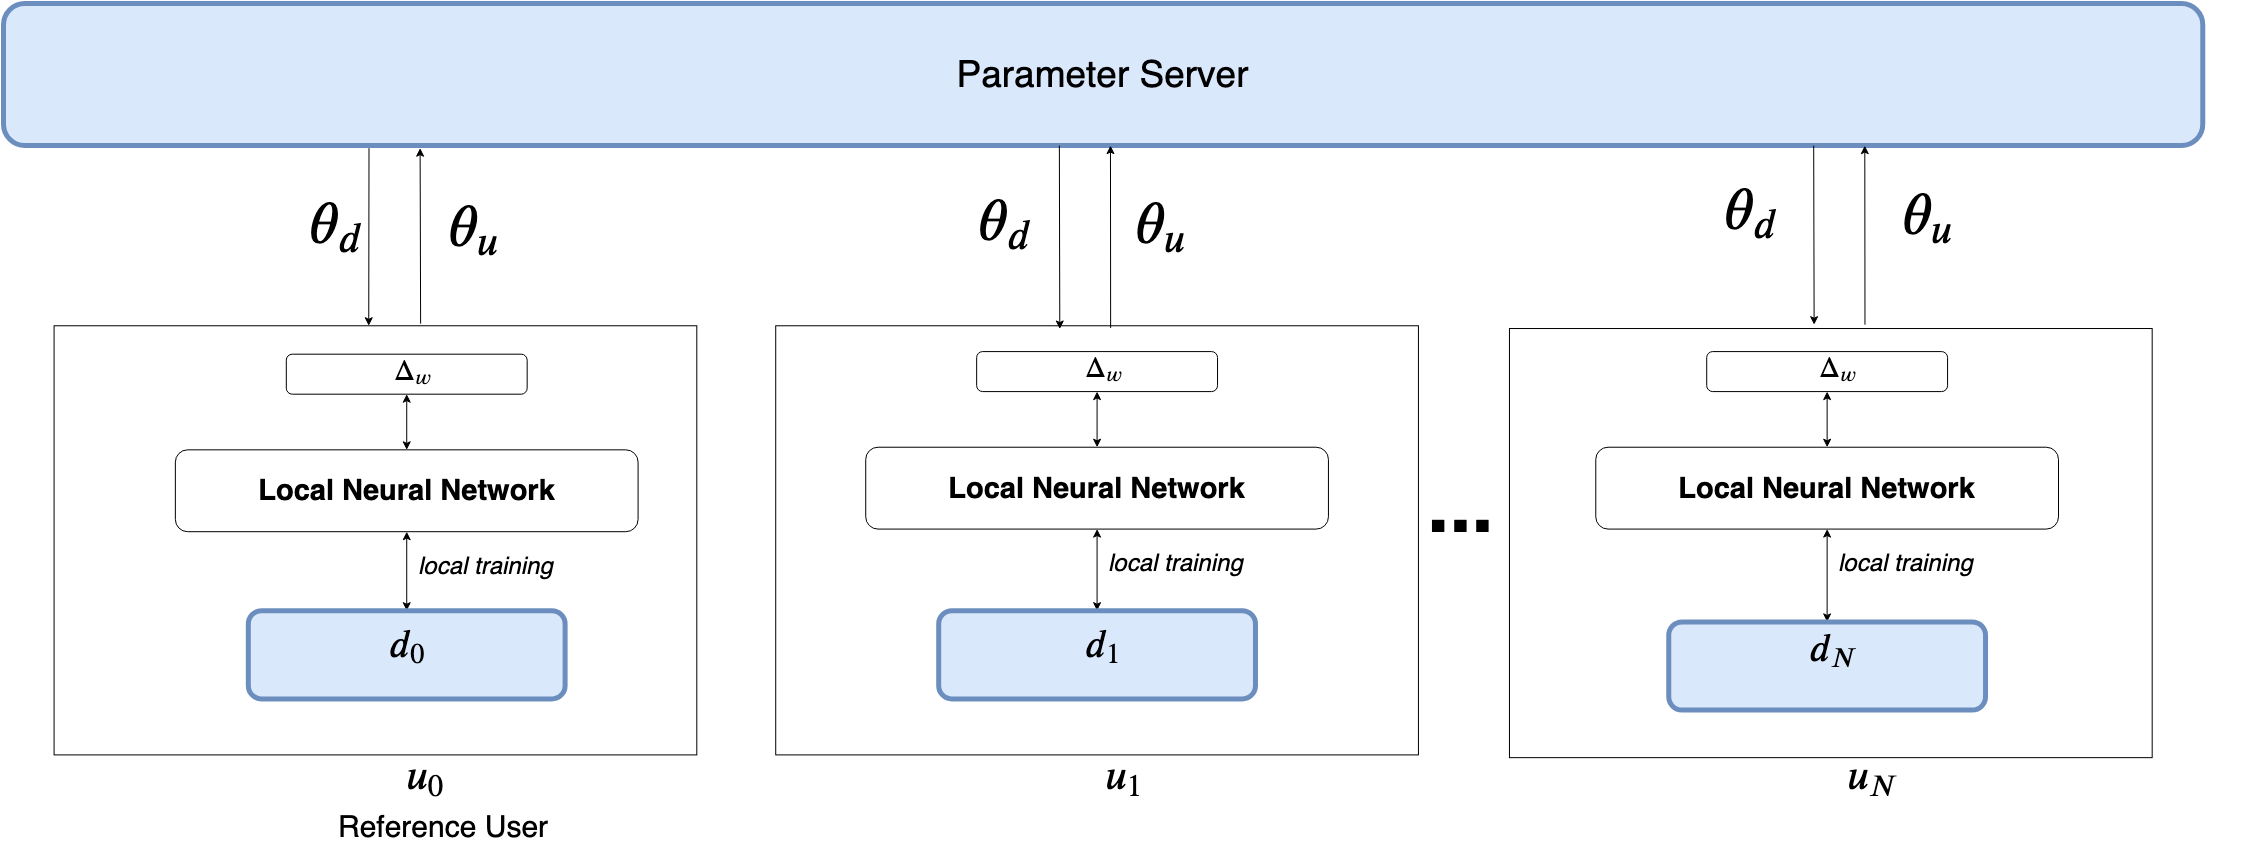
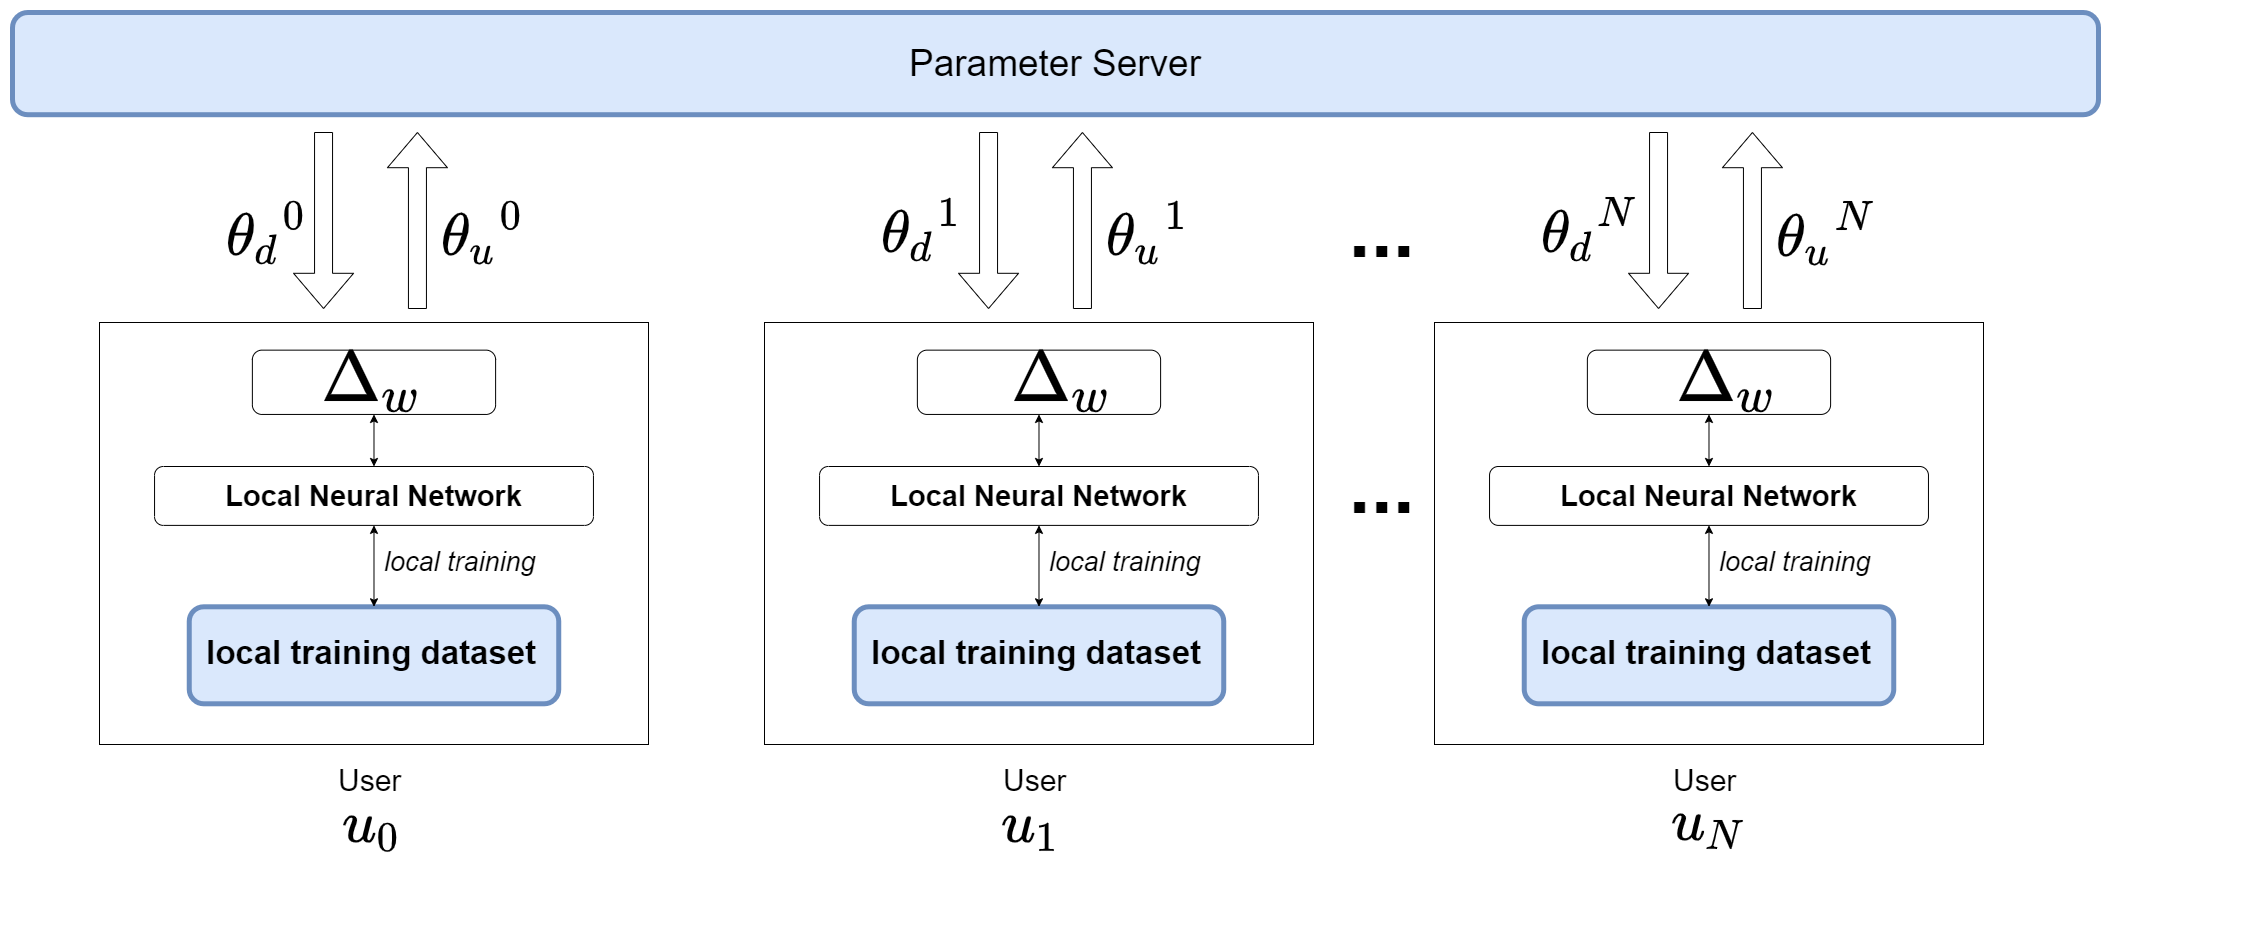
Edit Introduction, HighLevelArch diagrams. Add grids to graphs. Edit Experimental Result to include AllUploadNoDownload result

diff --git a/tex/Deep-Learning-Thesis-Draft-1.tex b/tex/Deep-Learning-Thesis-Draft-1.tex
@@ -57,7 +57,7 @@ samples from the reference user while maintaining a highly accurate deep neural 
 %Our solution does not involve computationally expensive cryptographic processes and relies on limiting the exposure of private dataset
 %of participants. 
 Our approach is flexible and can be adapted to work with any deep neural network architectures. We conduct extensive experiments to
-verify the proposed approach. We observe that the trained neural network can achieve \hl{\% of accuracy}, while protecting the privacy
+verify the proposed approach. We observe that the trained neural network can achieve an accuracy of 95.18\%, while protecting the privacy
 of the reference user by preventing it from sharing both its private data and deep neural network parameters with the server or other
 users.
 \end{abstract}
@@ -143,7 +143,7 @@ The main contribution of our approach is that it allows the main user to leverag
 deep learning model with high accuracy while protecting its private data from the parameter server, and other users who
 may launch sophisticated GAN based attacks as described in \cite{hitaj2017deep}. The proposed architecture is independent of the
 neural network architecture of the system, and is therefore, adaptable to any deep neural network. Our proposed privacy-preserving
-distributed learning approach can potentially be used in ... \hl{[add example]}. 
+distributed learning approach can potentially be used in a scenario where the privacy of one of the participant in distributed learning is valued over other participants. For instance, a medical facility that has classified medical data can still benefit from distributed deep learning using our approach. 
 
 % We accomplish this by a two pronged approach.
 % First, we randomly select users that can upload and download parameters from the server at each iteration. This prevents the
@@ -378,10 +378,9 @@ defined as follows.  Let $w$ denote the flattened vector of all weights and bias
 network. Then the $j$th parameter of $w$ is given by:
 %\begin{equation*}
 \begin{align}\label{eq:GD}
-w_j = w_j -\alpha \frac{\partial E_i}{\partial w_j}, 
+w_j = w_j -\alpha \frac{\partial E}{\partial w_j}, 
 \end{align}
-where $\alpha$ is the learning rate,  $E_i$ is the value of the error function defined in \eqref{eq:errorFunction} for the $i$th \hl{
-[what is the meaning of i here?]}, $\frac{\partial E_i}{\partial w_j}$ denotes the partial derivative of $E_i$ with respect to
+where $\alpha$ is the learning rate,  $E$ is the value of the error function defined in \eqref{eq:errorFunction} and calculated over the entire dataset and $\frac{\partial E}{\partial w_j}$ denotes the partial derivative of $E$ with respect to
 parameter $w_j$.
 %Consider E to be the error function over the entire dataset, then the new value of parameter $w_i$ is given by:
 %\begin{equation*}
@@ -462,7 +461,7 @@ within a feasible amount of time.
 
 %The size of the subset of samples, called mini-batch, used at each iteration has to be chosen
 %carefully. A small batch can reduce the computing time at each iteration, but may increase the number of iterations needed to converge.
-Formally, the SGD forward propagation and error calculation is identical to that of GS. Hoever, the parameter update in the 
+Formally, the SGD forward propagation and error calculation is identical to that of GD. However, the parameter update in the 
 back propagation step is defined as follows.
 \begin{align}\label{eq:SGD}
 w_j = w_j -\alpha \frac{\partial E_i}{\partial w_j}, 
@@ -528,7 +527,9 @@ $u_0$ & Reference User and the  main benefactor of the architecture \\
 \hline
 $M$ & Mini batch size used for stochastic gradient descent\\
 \hline
-$\theta_d$, $\theta_u$ & \hl{Fraction of parameters selected for download and upload from total available parameters} \\
+$\theta_u^{i}$ & Fraction of parameters selected for upload from total available parameters for $i$th user \\
+\hline
+$\theta_d^{i}$ & Fraction of parameters selected for download from total available parameters for $i$th user\\
 \hline
 $W_k$ & Weight matrix for layer K in the neural network\\
 \hline
@@ -544,7 +545,7 @@ $E_i$ & Error function defining...\\% the difference between the computed value 
 \hline
 $\alpha$ & Learning rate of the stochastic gradient descent algorithm\\
 \hline
-$\mathcal{S}$ & Set of $\theta_u$ \hl{update theta} largest indices selected from $w$ \\
+$\mathcal{S}_i$ & Set of $\theta_u^{i}$ largest indices selected from $w_i$ \\
 \hline
 \end{tabular}
 \end{table}
@@ -737,7 +738,7 @@ from other users.
 \section{A Privacy-preserving Distributed Learning Algorithm}
 %---------------------------------------------------------------------------------------
 \begin{figure*}[t]
-\includegraphics[width=\textwidth, keepaspectratio]{HighLevelArch}
+\includegraphics[width=\textwidth, keepaspectratio]{OurHighLevelApproach}
 \caption{One iteration of our proposed algorithm for privacy-preserving distributed learning.}
 \label{fig:HighLevel}
 \end{figure*}
@@ -902,7 +903,7 @@ descent training is set to 10 samples.
 
 \begin{figure}[!h]
 \centering
-\includegraphics[width=\columnwidth, keepaspectratio]{SingleUserBaselines}
+\includegraphics[width=\columnwidth, keepaspectratio]{SingleUserBaselinesGrid}
 \caption{Single User with varying sample size.}
 \label{fig:SingleUser}
 \end{figure}
@@ -917,12 +918,25 @@ of samples in the data set. This confirms that a small local data set can only p
 %on a larger
 %dataset has a higher accuracy. The user with the highest accuracy has had access to the complete MNIST training dataset of 60,000 samples. 
 
+
 \begin{figure}[!h]
 \centering
-\includegraphics[width=\columnwidth, keepaspectratio]{RandomVsAll}
+\includegraphics[width=\columnwidth, keepaspectratio]{RandomVsAllGrid}
 \caption{Comparison between randomized interaction and complete interaction with server. }
 \label{fig:RandVsAll}
 \end{figure}
+
+We also tested with a scenario in which all participants simply uploaded their local parameters to the server without downloading any parameters. Only the reference user was able to download the parameters from the server. In this case, $\theta_d^i$ was 0 for every participant except the reference user.
+\begin{figure}[!h]
+\centering
+\includegraphics[width=\columnwidth, keepaspectratio]{AllUploadNoDownloadGrid}
+\caption{Accuracy of reference user when all participants simply upload parameters to server. }
+\label{fig:AllUploadNoDownloadGrid}
+\end{figure}
+
+
+This approach did not show great results. Figure \ref{fig:AllUploadNoDownloadGrid} shows the accuracy of the reference user is negatively impacted in this scenario with each epoch. This shows that downloading the parameters from the server and performing local training is a crucial aspect for the efficacy of this architecture.
+
 Next, we compare the accuracy of the reference user under our proposed privacy-preserving algorithm and that of the algorithm proposed
 by Shokri et al. \cite{shokri2015privacy}. Figure \ref{fig:RandVsAll} shows the accuracy of the reference user $u_0$'s deep learning
 neural network trained under our proposed deep learning algorithm, and under \cite{shokri2015privacy}. We set the number of
@@ -934,7 +948,7 @@ obtained by \cite{shokri2015privacy}, which is vulnerable to the attack in \cite
 
 \begin{figure}[!h]
 \centering
-\includegraphics[width=\columnwidth, keepaspectratio]{VaryingPoolofParticipants}
+\includegraphics[width=\columnwidth, keepaspectratio]{VaryingPoolofParticipantsGrid}
 \caption{Accuracy of Distributed SGD for varying participants available for interaction with the PS.}
 \label{fig:VaryingPoolofParticipants}
 \end{figure}
@@ -947,7 +961,7 @@ model. The reason is that a larger  number of participants brings a larger and m
 
 \begin{figure}[!h]
 \centering
-\includegraphics[width=\columnwidth, keepaspectratio]{VaryingProbabilityInteraction}
+\includegraphics[width=\columnwidth, keepaspectratio]{VaryingProbabilityInteractionGrid}
 \caption{Accuracy of Distributed SGD for varying probability of interaction with the PS. }
 \label{fig:VaryingProbabilityInteraction}
 \end{figure}
@@ -967,8 +981,8 @@ approach proposed by \cite{shokri2015privacy} and thus it is vulnerable to the a
 
 \begin{figure}[!h]
 \centering
-\includegraphics[width=\columnwidth, keepaspectratio]{VaryingThetaU}
-\caption{Accuracy of Distributed SGD for different upload gradient selection rate, unevenly. }
+\includegraphics[width=\columnwidth, keepaspectratio]{VaryingThetaUGrid}
+\caption{Accuracy of Distributed SGD for different upload gradient selection rate. }
 \label{fig:VaryingThetaU}
 \end{figure}
 
